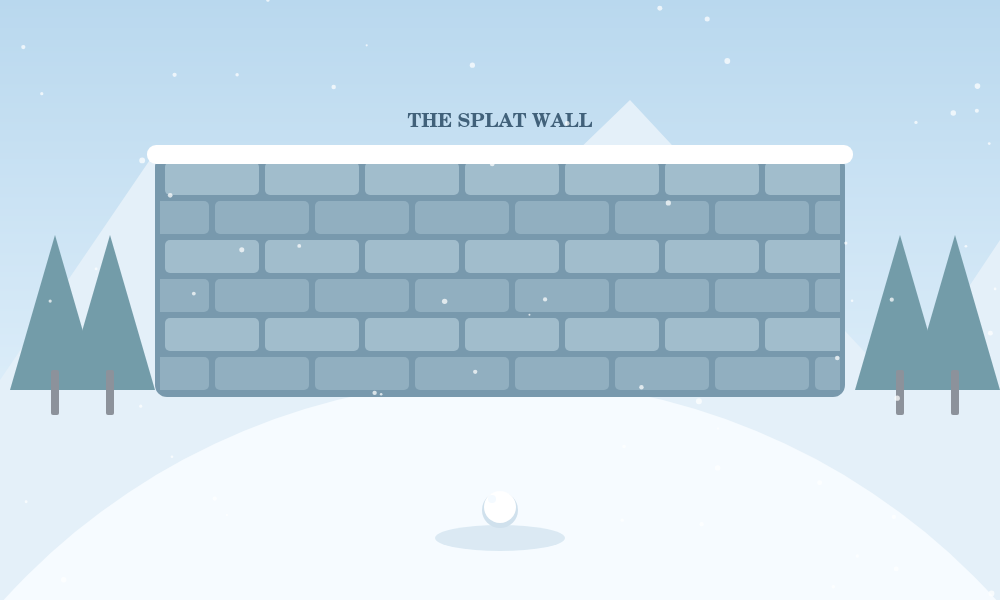
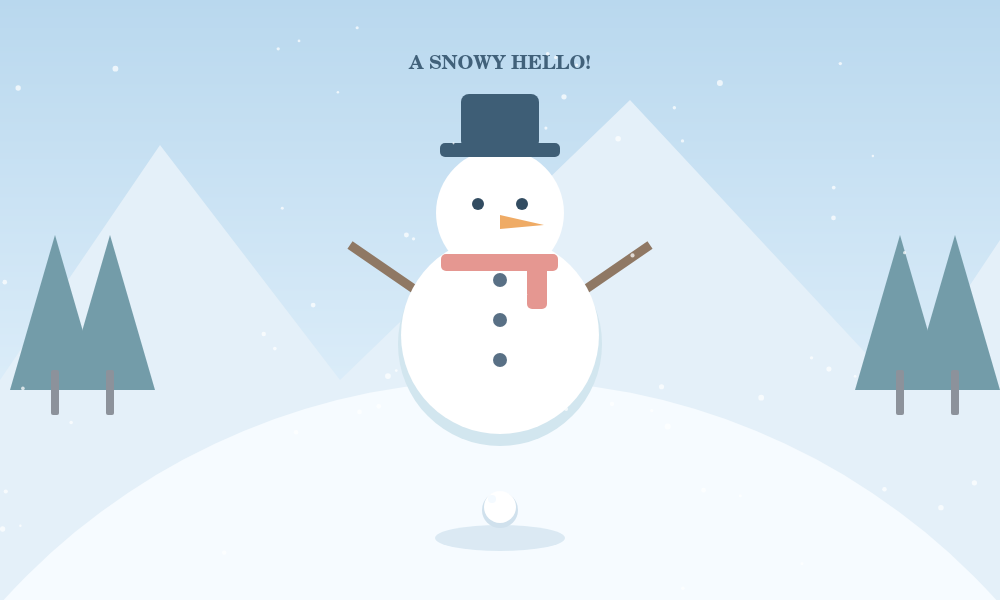
Start Snowball Playground with Snowman and use snowman preview

diff --git a/games/snowball-playground/index.html b/games/snowball-playground/index.html
@@ -1,7 +1,7 @@
 <!doctype html><html lang="en"><head><meta charset="utf-8"><meta name="viewport" content="width=device-width, initial-scale=1, viewport-fit=cover"><title>Snowball Playground</title><style>
 *{box-sizing:border-box}body{margin:0;background:#e9f4fb;color:#244660;font:16px system-ui,sans-serif}main{max-width:1120px;margin:auto;padding:20px}a{color:inherit;text-decoration:none}header{display:flex;align-items:center;justify-content:space-between;gap:12px;margin:16px 0}h1{margin:0;font-size:clamp(25px,4vw,40px);letter-spacing:-1px}p{margin:7px 0;color:#53748a}.score{background:white;border-radius:20px;padding:12px 20px;font-weight:800;white-space:nowrap}.toolbar{display:flex;gap:9px;flex-wrap:wrap;margin:16px 0}button{font:inherit;font-weight:700;color:#34546a;background:#fff;border:1px solid #c5dce9;border-radius:16px;padding:12px 17px;cursor:pointer;touch-action:manipulation}button[aria-pressed=true]{background:#315c7b;color:white;border-color:#315c7b}button:focus-visible,a:focus-visible{outline:3px solid #e7ab41;outline-offset:3px}.stage{position:relative;border:5px solid white;border-radius:27px;overflow:hidden;box-shadow:0 12px 30px #61839d22;background:#cde5f5}canvas{width:100%;display:block;aspect-ratio:5/3;touch-action:none;cursor:crosshair}.hint{position:absolute;left:0;right:0;bottom:12px;text-align:center;pointer-events:none;font-size:clamp(11px,2vw,15px);font-weight:700;color:#4e7089}.controls{display:flex;align-items:center;justify-content:center;flex-wrap:wrap;gap:15px;margin:20px 0}.pack{background:#478eae;color:white;border:none;min-width:210px;user-select:none;-webkit-user-select:none;touch-action:none;box-shadow:0 5px 0 #286780}.pack:active{transform:translateY(3px);box-shadow:0 2px 0 #286780}.small{font-size:13px;text-align:center}#status{height:24px;text-align:center;font-weight:700;color:#2e657d}@media(max-width:600px){main{padding:12px}header{align-items:flex-start}.score{padding:10px;font-size:13px}button{padding:10px 12px;font-size:14px}.toolbar{gap:6px}canvas{aspect-ratio:1/1}.hint{bottom:7px}.controls{margin:15px 0;gap:10px}}
-</style><link rel="stylesheet" href="../../shared/arcade-nav.css"></head><body class="arcade-game-page" style="--arcade-return-bg:#315c7b"><a class="arcade-return" href="../../index.html">← Mia and Michelle’s Arcade</a><main><header><div><h1>❄ Snowball Playground</h1><p>A little snow. A big SPLAT.</p></div><div class="score">Hits <span id="hits">0</span> · Throws <span id="throws">0</span></div></header><div class="toolbar" aria-label="Choose your playground"><button aria-pressed="true" data-mode="wall">Brick wall</button><button aria-pressed="false" data-mode="targets">Target practice</button><button aria-pressed="false" data-mode="snowman">Snowman</button><button id="reset">↻ Fresh snow</button></div><div class="stage"><canvas id="game" aria-label="Snowball throwing playground. Tap anywhere to throw a snowball there."></canvas><div class="hint">Tap anywhere to throw · Or drag from your snowball and release</div></div><div class="controls"><button class="pack" id="pack">Hold to pack a snowball</button><span id="size">Small & fluffy</span></div><div id="status" aria-live="polite">Your snowball is ready!</div><p class="small">Hold to make it bigger, then tap the wall or a target. Unlimited snow!</p></main><script>
-const c=document.querySelector('canvas'),ctx=c.getContext('2d'),$=id=>document.getElementById(id);let mode='wall',radius=16,packing=false,drag=null,balls=[],marks=[],particles=[],hits=0,throws=0,last=0,t=0;const origin={x:500,y:510};const flakes=Array.from({length:60},()=>({x:Math.random()*1000,y:Math.random()*600,r:Math.random()*2+1,v:Math.random()*16+8}));
+</style><link rel="stylesheet" href="../../shared/arcade-nav.css"></head><body class="arcade-game-page" style="--arcade-return-bg:#315c7b"><a class="arcade-return" href="../../index.html">← Mia and Michelle’s Arcade</a><main><header><div><h1>❄ Snowball Playground</h1><p>A little snow. A big SPLAT.</p></div><div class="score">Hits <span id="hits">0</span> · Throws <span id="throws">0</span></div></header><div class="toolbar" aria-label="Choose your playground"><button aria-pressed="true" data-mode="snowman">Snowman</button><button aria-pressed="false" data-mode="targets">Target practice</button><button aria-pressed="false" data-mode="wall">Brick wall</button><button id="reset">↻ Fresh snow</button></div><div class="stage"><canvas id="game" aria-label="Snowball throwing playground. Tap anywhere to throw a snowball there."></canvas><div class="hint">Tap anywhere to throw · Or drag from your snowball and release</div></div><div class="controls"><button class="pack" id="pack">Hold to pack a snowball</button><span id="size">Small & fluffy</span></div><div id="status" aria-live="polite">Your snowball is ready!</div><p class="small">Hold to make it bigger, then tap the wall or a target. Unlimited snow!</p></main><script>
+const c=document.querySelector('canvas'),ctx=c.getContext('2d'),$=id=>document.getElementById(id);let mode='snowman',radius=16,packing=false,drag=null,balls=[],marks=[],particles=[],hits=0,throws=0,last=0,t=0;const origin={x:500,y:510};const flakes=Array.from({length:60},()=>({x:Math.random()*1000,y:Math.random()*600,r:Math.random()*2+1,v:Math.random()*16+8}));
 function resize(){let r=c.getBoundingClientRect();c.width=Math.round(r.width*devicePixelRatio);c.height=Math.round(r.height*devicePixelRatio)}new ResizeObserver(resize).observe(c);function point(e){let r=c.getBoundingClientRect();return{x:(e.clientX-r.left)/r.width*1000,y:(e.clientY-r.top)/r.height*600}}function circle(x,y,r,col){ctx.beginPath();ctx.arc(x,y,r,0,Math.PI*2);ctx.fillStyle=col;ctx.fill()}function round(x,y,w,h,r,col){ctx.fillStyle=col;ctx.beginPath();ctx.roundRect(x,y,w,h,r);ctx.fill()}function label(s,x,y,size=20,col='#41617a'){ctx.font=`700 ${size}px system-ui`;ctx.textAlign='center';ctx.fillStyle=col;ctx.fillText(s,x,y)}
 function targetAt(x,y){if(mode==='wall')return x>160&&x<840&&y>155&&y<390;if(mode==='targets')return [270,500,730].some((cx,i)=>Math.hypot(x-cx,y-[270,215,270][i])<62);return Math.hypot(x-500,(y-320)*.9)<105||Math.hypot(x-500,y-210)<66}
 function shoot(p){let x=Math.max(20,Math.min(980,p.x)),y=Math.max(45,Math.min(460,p.y));let duration=.65+radius*.004;balls.push({age:0,duration,x,y,r:radius});throws++;$('throws').textContent=throws;radius=16;$('size').textContent='Small & fluffy';$('status').textContent='Snowball away!'}

diff --git a/index.html b/index.html
@@ -108,7 +108,7 @@
       </article>
 
       <article class="card">
-        <a class="thumb" href="games/snowball-playground/index.html"><div class="thumbFrame"><img src="assets/snowball-playground-preview.png?v=7b21a926f2a4" alt="Snowball Playground with a snowy brick wall and a snowball ready to throw" /></div></a>
+        <a class="thumb" href="games/snowball-playground/index.html"><div class="thumbFrame"><img src="assets/snowball-playground-preview.png?v=19d254365082" alt="Snowball Playground with a snowman and a snowball ready to throw" /></div></a>
         <div class="body">
           <div class="name">❄ Snowball Playground</div>
           <div class="desc">Pack a fluffy snowball, aim at a wall, targets, or a snowman, and make a big snowy splat!</div>

diff --git a/games/snowball-playground/README.md b/games/snowball-playground/README.md
@@ -4,7 +4,7 @@ Pack snowballs and throw them at a brick wall, targets, or a snowman.
 
 - Hold **Hold to pack a snowball** to grow it, then release.
 - Tap the playground to throw, or drag and release to aim.
-- Choose Brick wall, Target practice, or Snowman. Fresh snow resets the scene and counters.
+- Start with Snowman, or choose Target practice or Brick wall. Fresh snow resets the scene and counters.
 - Unlimited snow, no account, and no saved game state.
 
 Uses the shared Arcade return button and aggregate analytics. Canvas graphics are drawn locally; no external assets or microphone access are required.
